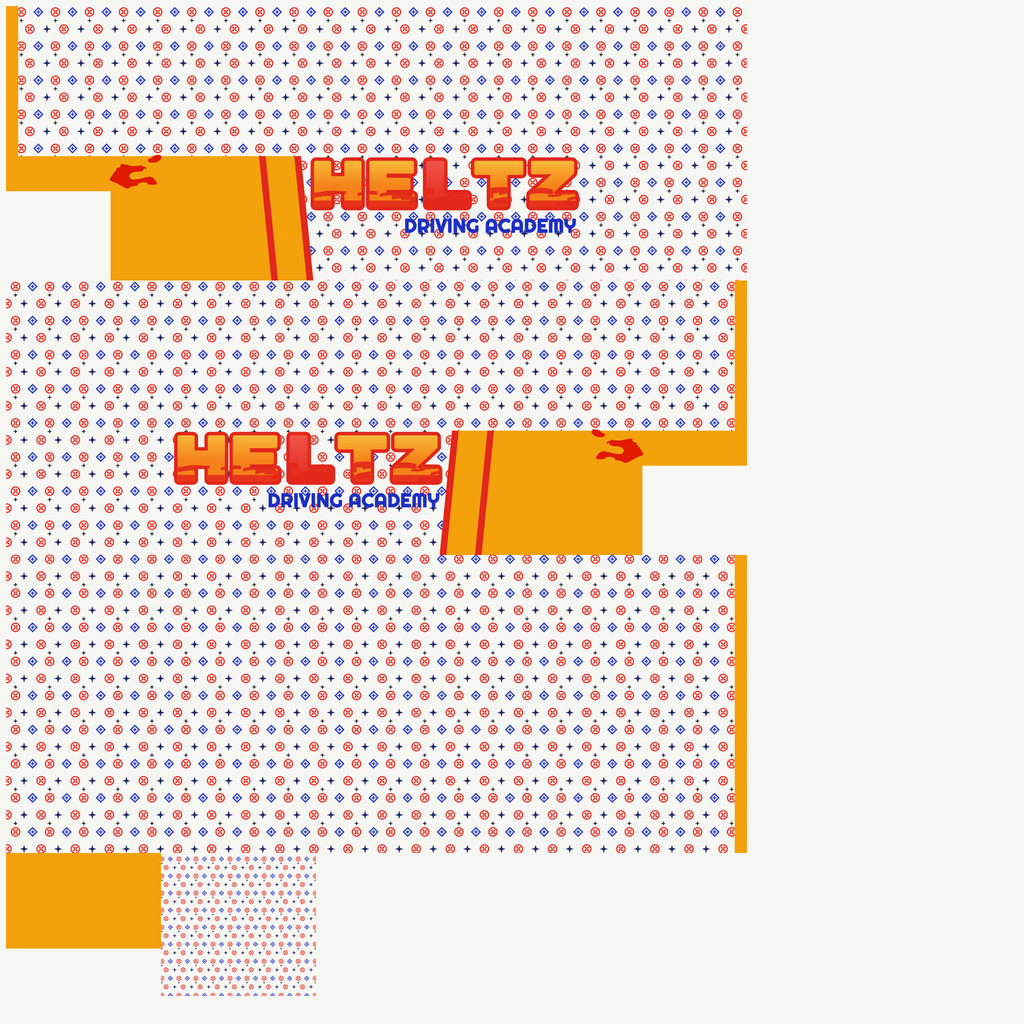
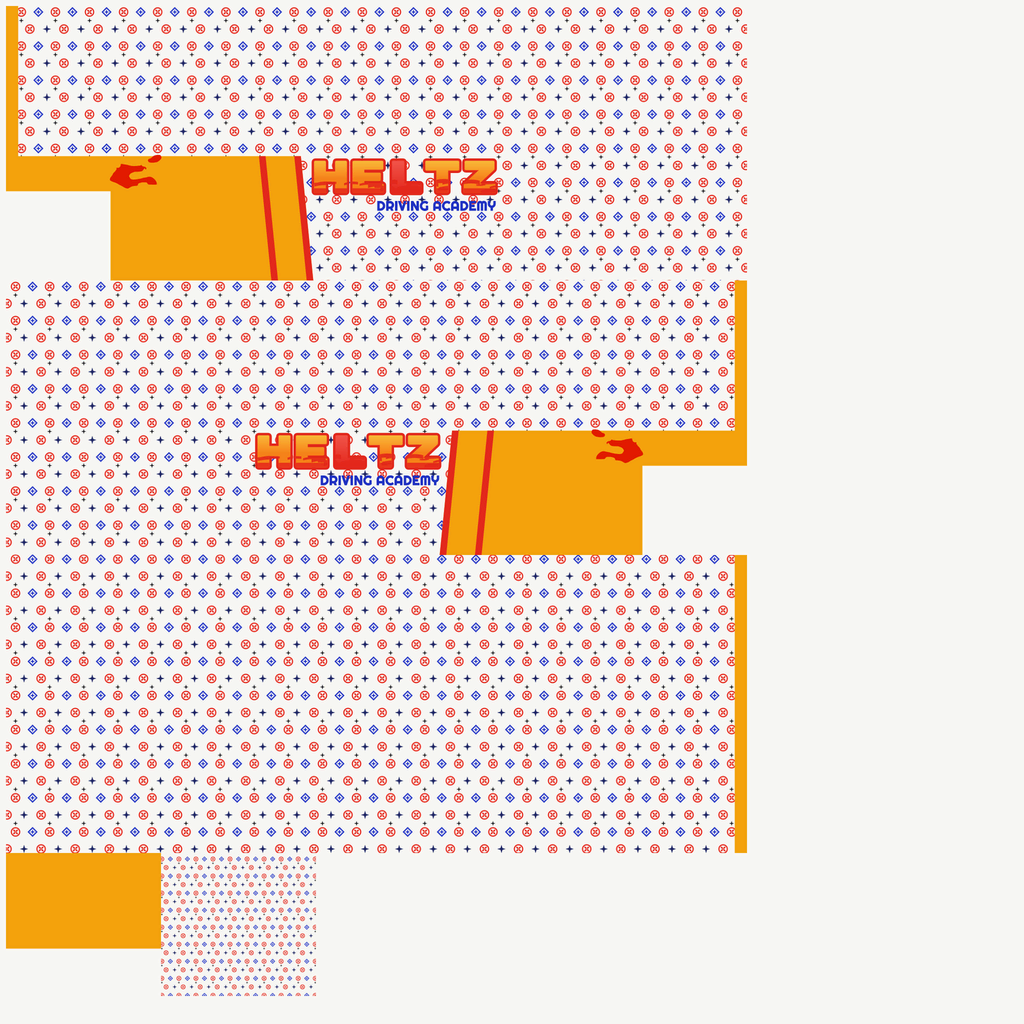
fix: the lorry gets through the reserve gaps, and Heltz's name fits the van
Driving every task in the van and the lorry (board.test.ts now does) showed
the lorry clipping the central reserve on the three tasks that turn through
a gap in it: the turn is laid out for a car's circle. The lorry now steers
by a car's wheelbase, as a cab-over's front wheels turn further. The van
passed everything, flush parking included.

A lane lesson's vehicles are now driven home at their own sizes in the
tests, and the line-ups are checked to fit with the long ones in them.

Heltz's lettering stops at the van's taller rear arch, which cut its end
off.

Changed region(s): [[0.1562, 0.4062, 0.4375, 0.5], [0.2812, 0.1562, 0.5625, 0.25]]

diff --git a/app/lib/board/board.test.ts b/app/lib/board/board.test.ts
@@ -36,7 +36,7 @@ import {
 } from "./geometry";
 import { SEATS, stickBearing, type Seat } from "./joystick";
 import { lanePath, turnBackPath } from "./lane-paths";
-import { challengeRoute, taskParks } from "./lessons";
+import { challengeRoute, taskParks, taskUsesAngleBay } from "./lessons";
 import { distanceNear, network, poseAt, type Route } from "./network";
 import {
   PARKING_LAYOUTS,
@@ -54,6 +54,7 @@ import {
   car,
   drive,
   loadPhysics,
+  setVehicle,
   stick,
   stopDriving,
   tick,
@@ -169,11 +170,7 @@ type Follow = {
  * the line from the car. If the route starts in another lane, they change to
  * it first.
  */
-function follower(
-  challenge: TurnChallenge,
-  path: Vec[],
-  options: Follow = {},
-) {
+function follower(challenge: TurnChallenge, path: Vec[], options: Follow = {}) {
   let nearest = 0;
   const first = locate(path[0].x, path[0].z);
   const wantLane = first.kind === "arm" ? first.lane : null;
@@ -285,8 +282,8 @@ function proper(
   }
   const path =
     challenge.start.arm === "S"
-        ? lanePath("S", lane, challenge.turn)
-        : fromLane(challengeRoute(challenge)?.points ?? [], lane);
+      ? lanePath("S", lane, challenge.turn)
+      : fromLane(challengeRoute(challenge)?.points ?? [], lane);
   return play(challenge, follower(challenge, path, options));
 }
 
@@ -308,6 +305,7 @@ const SHIPPED_LANES: Record<string, number> = {
 beforeAll(() => loadPhysics());
 beforeEach(() => {
   stopDriving();
+  setVehicle("saloon");
   drive.seat = "south";
   drive.assist = true;
 });
@@ -758,7 +756,9 @@ describe("serious mistakes end the attempt", () => {
     const tip = faultTip(result.fault!);
     expect(tip.reason).toContain("Lane 2 has one option: go straight");
     expect(tip.reason).toContain("approach in lane 1.");
-    expect(tip.reason).toContain("Lane 4 can also do it, once round the island first");
+    expect(tip.reason).toContain(
+      "Lane 4 can also do it, once round the island first",
+    );
   });
 
   it("lane 1 turning right", () => {
@@ -933,7 +933,6 @@ describe("lane discipline ends the attempt", () => {
 });
 
 describe("small mistakes cost a star and the drive goes on", () => {
-
   it("stopping on the roundabout", () => {
     const challenge = task("straight", 2);
     const onward = follower(challenge, lanePath("S", 2, "straight"));
@@ -1048,7 +1047,10 @@ function routeFollower(
     }
 
     const here = poseAt(route, progress);
-    const aim = poseAt(route, Math.min(route.length, progress + (here.reversing ? 3 : 4.5)));
+    const aim = poseAt(
+      route,
+      Math.min(route.length, progress + (here.reversing ? 3 : 4.5)),
+    );
     let bearing = bearingOf(aim.x - car.x, aim.z - car.z);
     if (options.aside && progress >= (options.asideFrom ?? 0)) {
       const side = poseAt(route, Math.min(route.length, progress + 6));
@@ -1112,8 +1114,12 @@ describe("the parked cars move, and the bay to take with them", () => {
         const start = route.points[0];
         // no parked car stands where the task starts or ends
         for (const other of task.otherCars) {
-          expect(Math.hypot(other.x - end.x, other.z - end.z)).toBeGreaterThan(3);
-          expect(Math.hypot(other.x - start.x, other.z - start.z)).toBeGreaterThan(3);
+          expect(Math.hypot(other.x - end.x, other.z - end.z)).toBeGreaterThan(
+            3,
+          );
+          expect(
+            Math.hypot(other.x - start.x, other.z - start.z),
+          ).toBeGreaterThan(3);
         }
         const result = play(task, routeFollower(task, route), 240);
         expect(result.fault, task.id).toBeUndefined();
@@ -1163,8 +1169,7 @@ describe("no stopping on a pedestrian crossing", () => {
 
 describe("no stopping beside a yellow kerb, but a brief pause is fine", () => {
   const task = ROUTE_TASKS.find((c) => c.id === "down-the-street")!;
-  const inStreet = () =>
-    car.z > ROADS.STREET.z0 && car.z < ROADS.STREET.z1;
+  const inStreet = () => car.z > ROADS.STREET.z0 && car.z < ROADS.STREET.z1;
   const stopLine = () => {
     const net = network();
     const edge = net.edges.find(
@@ -1220,6 +1225,23 @@ describe("tasks away from the roundabout", () => {
     for (const challenge of ROUTE_TASKS) {
       it(`passes "${challenge.title}", assist ${assist ? "on" : "off"}`, () => {
         drive.assist = assist;
+        const route = challengeRoute(challenge)!;
+        const result = play(challenge, routeFollower(challenge, route), 240);
+        expect(result.fault, challenge.id).toBeUndefined();
+        expect(result.small, challenge.id).toEqual([]);
+        expect(result.goal, challenge.id).toBe(true);
+      });
+    }
+  }
+
+  // The van and the lorry are true to size: longer, and the lorry turns in a
+  // wider circle. Every task they are given must still be drivable. (A task
+  // that uses an angle bay is driven in a car instead.)
+  for (const vehicle of ["van", "lorry"] as const) {
+    for (const challenge of ROUTE_TASKS) {
+      if (taskUsesAngleBay(challenge)) continue;
+      it(`passes "${challenge.title}" in the ${vehicle}`, () => {
+        setVehicle(vehicle);
         const route = challengeRoute(challenge)!;
         const result = play(challenge, routeFollower(challenge, route), 240);
         expect(result.fault, challenge.id).toBeUndefined();

diff --git a/app/lib/board/lane-queue.test.ts b/app/lib/board/lane-queue.test.ts
@@ -1,6 +1,7 @@
 import { beforeAll, beforeEach, describe, expect, it } from "vitest";
 
 import { CAR } from "./car";
+import { sizeOf } from "./cars";
 import type { TurnChallenge } from "./challenges";
 import { goalBox } from "./full-board";
 import {
@@ -27,6 +28,7 @@ import {
   car,
   drive,
   loadPhysics,
+  setVehicle,
   stick,
   stopDriving,
   tick,
@@ -109,6 +111,8 @@ function playLesson(arm: ArmId, choose: (front: QueueCar[]) => QueueCar): void {
   while (Object.keys(rest).length < cars.length) {
     const next = choose(pickable(cars, Object.keys(rest)));
     const challenge = queueChallenge(cars, next, rest);
+    // Each is driven at its own size: a lorry takes a lorry's room.
+    setVehicle(next.car);
     const outcome = driveAlong(challenge, next.option.route.points);
     expect(outcome.fault, `${next.id} fault`).toBeUndefined();
     expect(outcome.small, `${next.id} small faults`).toEqual([]);
@@ -120,6 +124,7 @@ function playLesson(arm: ArmId, choose: (front: QueueCar[]) => QueueCar): void {
 beforeAll(() => loadPhysics());
 beforeEach(() => {
   stopDriving();
+  setVehicle("saloon");
   drive.seat = "south";
   drive.assist = true;
 });
@@ -146,7 +151,20 @@ describe("the lane options line-up", () => {
           side: "approach",
           lane: one.lane,
         });
-        expect(one.along + CAR.length / 2).toBeLessThan(ARMS[arm].length - 0.5);
+        // its tail is on the board, whatever its length
+        expect(one.along + sizeOf(one.car).length / 2).toBeLessThan(
+          ARMS[arm].length - 0.5,
+        );
+        // and its nose clear of the one in front of it in its lane
+        const ahead = cars.find(
+          (c) => c.lane === one.lane && c.slot === one.slot - 1,
+        );
+        if (ahead) {
+          expect(
+            one.along - sizeOf(one.car).length / 2,
+            `${one.id} behind ${ahead.id}`,
+          ).toBeGreaterThan(ahead.along + sizeOf(ahead.car).length / 2 + 0.5);
+        }
         expect(allowedTurns(ARMS[arm].lanes, one.lane)).toContain(
           one.option.turn,
         );
@@ -162,6 +180,12 @@ describe("the lane options line-up", () => {
       }
       expect(new Set(cars.map((c) => c.paint)).size).toBe(cars.length);
     }
+    // the long vehicles take their places in a line-up too
+    const models = (["S", "W"] as const).flatMap((arm) =>
+      queueCars(arm).map((c) => c.car),
+    );
+    expect(models).toContain("van");
+    expect(models).toContain("lorry");
   });
 
   it("marks every standing car as one that wears the school's paint", () => {

diff --git a/app/lib/board/cars.ts b/app/lib/board/cars.ts
@@ -113,7 +113,11 @@ export const BOARD_CARS = [
     id: "lorry",
     label: "Lorry",
     src: "/assets/board/cars/lorry.glb?v=1",
-    size: { length: 6, width: 1.94, wheelbase: 3.2, height: 2.35 },
+    // Its axles are 3.2 m apart, but it steers by a car's wheelbase: a
+    // cab-over lorry's front wheels turn further than a car's, and the turn
+    // through a gap in the central reserve is laid out for a car's circle.
+    // With 3.2 it clipped the reserve there (board.test.ts drives it).
+    size: { length: 6, width: 1.94, wheelbase: 2.6, height: 2.35 },
     big: true,
     model: {
       by: "igbalabdrahmane",

diff --git a/app/components/board/board-settings-sheet.tsx b/app/components/board/board-settings-sheet.tsx
@@ -172,7 +172,7 @@ export function BoardSettingsSheet({
             </div>
             <p className="m-0 text-[12.5px] leading-snug text-ink-2">
               The five cars are the same size and drive the same way. The van
-              and the lorry are bigger and need more room to turn. Surprise me
+              and the lorry are bigger, as they are on the road. Surprise me
               picks one each time you visit.
             </p>
             {open && sponsor?.livery?.cars[car] && (
